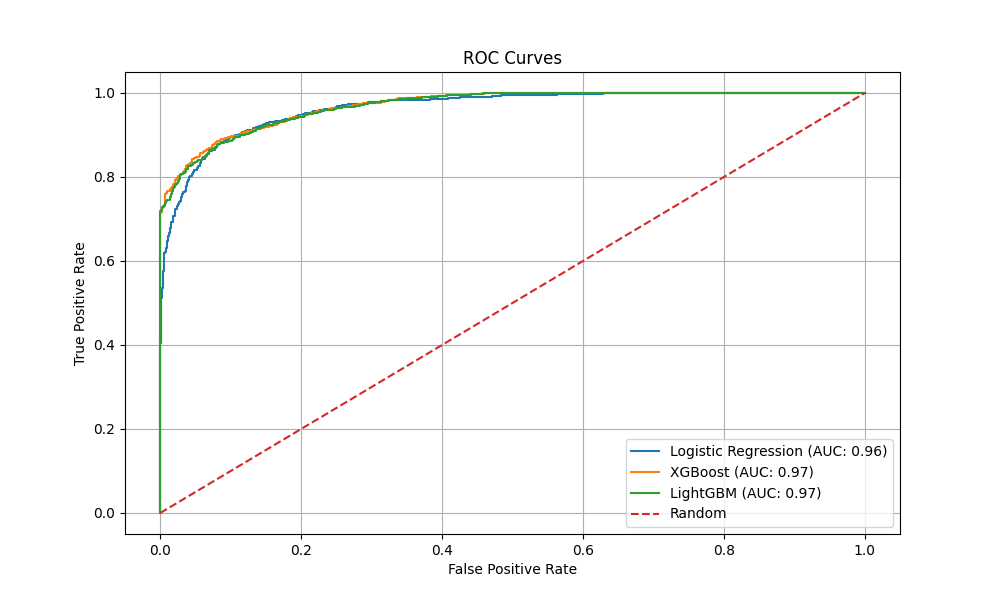
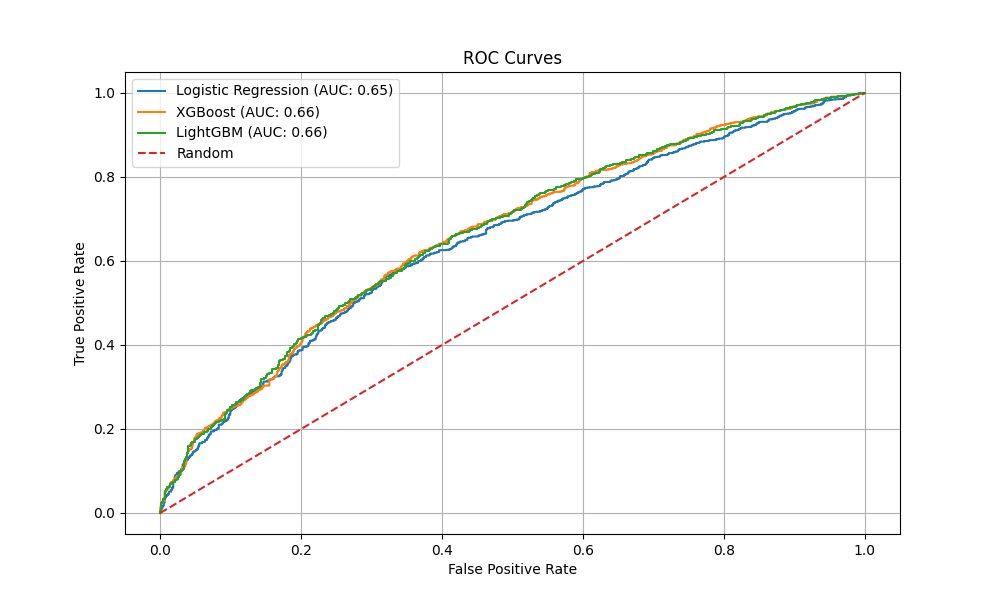
modified model to only include basic features parameter

diff --git a/Model_Training/feature_engineering.py b/Model_Training/feature_engineering.py
@@ -124,137 +124,75 @@ def create_performance_metrics(df):
     df['performance_diff'] = df['home_performance'] - df['away_performance']
     return ['home_performance', 'away_performance', 'performance_diff']
 
+def create_efficiency_metrics(df):
+    """Calculate efficiency-based metrics."""
+    # Offensive efficiency (points per shooting percentage)
+    df['home_off_eff'] = df['home_avg_pts'] / (df['home_avg_fg_pct'] * 100)
+    df['away_off_eff'] = df['away_avg_pts'] / (df['away_avg_fg_pct'] * 100)
+    df['off_eff_diff'] = df['home_off_eff'] - df['away_off_eff']
+    
+    # True shooting percentage
+    df['home_ts_pct'] = df['home_avg_pts'] / (2 * (df['home_avg_fg_pct'] * 100 + 0.44 * df['home_avg_ft_pct'] * 100))
+    df['away_ts_pct'] = df['away_avg_pts'] / (2 * (df['away_avg_fg_pct'] * 100 + 0.44 * df['away_avg_ft_pct'] * 100))
+    df['ts_pct_diff'] = df['home_ts_pct'] - df['away_ts_pct']
+    
+    return ['home_off_eff', 'away_off_eff', 'off_eff_diff',
+            'home_ts_pct', 'away_ts_pct', 'ts_pct_diff']
+
+def create_performance_differentials(df):
+    """Calculate differentials between home and away team stats."""
+    # Basic stat differentials
+    df['pts_diff'] = df['home_avg_pts'] - df['away_avg_pts']
+    df['reb_diff'] = df['home_avg_reb'] - df['away_avg_reb']
+    df['ast_diff'] = df['home_avg_ast'] - df['away_avg_ast']
+    df['stl_diff'] = df['home_avg_stl'] - df['away_avg_stl']
+    df['blk_diff'] = df['home_avg_blk'] - df['away_avg_blk']
+    
+    # Shooting percentage differentials
+    df['fg_pct_diff'] = df['home_avg_fg_pct'] - df['away_avg_fg_pct']
+    df['fg3_pct_diff'] = df['home_avg_fg3_pct'] - df['away_avg_fg3_pct']
+    df['ft_pct_diff'] = df['home_avg_ft_pct'] - df['away_avg_ft_pct']
+    
+    return ['pts_diff', 'reb_diff', 'ast_diff', 'stl_diff', 'blk_diff',
+            'fg_pct_diff', 'fg3_pct_diff', 'ft_pct_diff']
+
+def create_composite_metrics(df):
+    """Create composite performance metrics."""
+    # Defensive rating (blocks + steals)
+    df['home_def_rating'] = df['home_avg_blk'] + df['home_avg_stl']
+    df['away_def_rating'] = df['away_avg_blk'] + df['away_avg_stl']
+    df['def_rating_diff'] = df['home_def_rating'] - df['away_def_rating']
+    
+    # Overall performance rating
+    df['home_performance'] = (
+        df['home_avg_pts'] * 1.0 +
+        df['home_avg_reb'] * 0.4 +
+        df['home_avg_ast'] * 0.3 +
+        df['home_def_rating'] * 0.3
+    )
+    
+    df['away_performance'] = (
+        df['away_avg_pts'] * 1.0 +
+        df['away_avg_reb'] * 0.4 +
+        df['away_avg_ast'] * 0.3 +
+        df['away_def_rating'] * 0.3
+    )
+    
+    df['performance_diff'] = df['home_performance'] - df['away_performance']
+    
+    return ['home_def_rating', 'away_def_rating', 'def_rating_diff',
+            'home_performance', 'away_performance', 'performance_diff']
+
 def engineer_features(df):
-    """
-    Engineer additional features for team performance analysis and ensure all stats are floats
-    Returns both the modified DataFrame and list of engineered feature columns
-    """
+    """Main function to engineer all features."""
     engineered_features = []
     
-    # First ensure all numeric columns are float
-    numeric_columns = [
-        'home_avg_pts', 'away_avg_pts',
-        'home_avg_reb', 'away_avg_reb',
-        'home_avg_ast', 'away_avg_ast',
-        'home_avg_stl', 'away_avg_stl',
-        'home_avg_blk', 'away_avg_blk',
-        'home_avg_fg_pct', 'away_avg_fg_pct',
-        'home_avg_fg3_pct', 'away_avg_fg3_pct',
-        'home_avg_ft_pct', 'away_avg_ft_pct'
-    ]
-    engineered_features.extend(numeric_columns)
-    
-    for col in numeric_columns:
-        df[col] = pd.to_numeric(df[col], errors='coerce').astype(float)
-    
-    # Create rolling window features (last N games)
-    windows = [3, 5, 10]
-    
-    for window in windows:
-        # Rolling averages for each team
-        win_rate_col = f'home_win_rate_{window}g'
-        df[win_rate_col] = df.groupby('team_id_home')['wl_home'].transform(
-            lambda x: pd.to_numeric(x == 'W', errors='coerce').rolling(window, min_periods=1).mean()
-        ).astype(float)
-        engineered_features.append(win_rate_col)
-        
-        # Offensive features
-        home_eff_col = f'home_scoring_efficiency_{window}g'
-        away_eff_col = f'away_scoring_efficiency_{window}g'
-        
-        df[home_eff_col] = (
-            df.groupby('team_id_home')['home_avg_pts'].transform(
-                lambda x: x.rolling(window, min_periods=1).mean()
-            ) / df.groupby('team_id_home')['home_avg_fg_pct'].transform(
-                lambda x: x.rolling(window, min_periods=1).mean()
-            )
-        ).astype(float)
-        
-        df[away_eff_col] = (
-            df.groupby('team_id_away')['away_avg_pts'].transform(
-                lambda x: x.rolling(window, min_periods=1).mean()
-            ) / df.groupby('team_id_away')['away_avg_fg_pct'].transform(
-                lambda x: x.rolling(window, min_periods=1).mean()
-            )
-        ).astype(float)
-        
-        engineered_features.extend([home_eff_col, away_eff_col])
-        
-        # Defensive features
-        home_def_col = f'home_defensive_rating_{window}g'
-        away_def_col = f'away_defensive_rating_{window}g'
-        
-        df[home_def_col] = (
-            df.groupby('team_id_home')['home_avg_stl'].transform(
-                lambda x: x.rolling(window, min_periods=1).mean()
-            ) + df.groupby('team_id_home')['home_avg_blk'].transform(
-                lambda x: x.rolling(window, min_periods=1).mean()
-            )
-        ).astype(float)
-        
-        df[away_def_col] = (
-            df.groupby('team_id_away')['away_avg_stl'].transform(
-                lambda x: x.rolling(window, min_periods=1).mean()
-            ) + df.groupby('team_id_away')['away_avg_blk'].transform(
-                lambda x: x.rolling(window, min_periods=1).mean()
-            )
-        ).astype(float)
-        
-        engineered_features.extend([home_def_col, away_def_col])
-    
-    # Head-to-head features
-    df['h2h_wins'] = df.groupby(['team_id_home', 'team_id_away'])['wl_home'].transform(
-        lambda x: pd.to_numeric(x == 'W', errors='coerce').expanding().mean()
-    ).astype(float)
-    engineered_features.append('h2h_wins')
-    
-    # Home/Away performance
-    df['home_advantage'] = df.groupby('team_id_home')['wl_home'].transform(
-        lambda x: pd.to_numeric(x == 'W', errors='coerce').expanding().mean()
-    ).astype(float)
-    
-    df['away_disadvantage'] = df.groupby('team_id_away')['wl_home'].transform(
-        lambda x: pd.to_numeric(x == 'L', errors='coerce').expanding().mean()
-    ).astype(float)
-    
-    engineered_features.extend(['home_advantage', 'away_disadvantage'])
-    
-    # Momentum features
-    df['home_momentum'] = df.groupby('team_id_home')['wl_home'].transform(
-        lambda x: pd.to_numeric(x == 'W', errors='coerce').rolling(3, min_periods=1).sum()
-    ).astype(float)
-    
-    df['away_momentum'] = df.groupby('team_id_away')['wl_home'].transform(
-        lambda x: pd.to_numeric(x == 'L', errors='coerce').rolling(3, min_periods=1).sum()
-    ).astype(float)
-    
-    engineered_features.extend(['home_momentum', 'away_momentum'])
-    
-    # Shooting efficiency differential
-    shooting_diffs = ['fg_pct_diff', 'fg3_pct_diff', 'ft_pct_diff']
-    df['fg_pct_diff'] = (df['home_avg_fg_pct'] - df['away_avg_fg_pct']).astype(float)
-    df['fg3_pct_diff'] = (df['home_avg_fg3_pct'] - df['away_avg_fg3_pct']).astype(float)
-    df['ft_pct_diff'] = (df['home_avg_ft_pct'] - df['away_avg_ft_pct']).astype(float)
-    engineered_features.extend(shooting_diffs)
-    
-    # Overall team efficiency
-    df['home_efficiency'] = (
-        (df['home_avg_pts'] + df['home_avg_ast'] + df['home_avg_reb']) /
-        (df['home_avg_fg_pct'] + df['home_avg_fg3_pct'] + df['home_avg_ft_pct'])
-    ).astype(float)
-    
-    df['away_efficiency'] = (
-        (df['away_avg_pts'] + df['away_avg_ast'] + df['away_avg_reb']) /
-        (df['away_avg_fg_pct'] + df['away_avg_fg3_pct'] + df['away_avg_ft_pct'])
-    ).astype(float)
-    
-    engineered_features.extend(['home_efficiency', 'away_efficiency'])
+    # Add all engineered features
+    engineered_features.extend(create_efficiency_metrics(df))
+    engineered_features.extend(create_performance_differentials(df))
+    engineered_features.extend(create_composite_metrics(df))
     
     # Fill any NaN values with 0
-    df = df.fillna(0.0)
-    
-    # Final check to ensure all numeric columns are float
-    numeric_cols = df.select_dtypes(include=['int64', 'float64']).columns
-    df[numeric_cols] = df[numeric_cols].astype(float)
+    df[engineered_features] = df[engineered_features].fillna(0)
     
     return engineered_features 

diff --git a/Model_Training/train_models.py b/Model_Training/train_models.py
@@ -8,26 +8,29 @@ from sklearn.metrics import brier_score_loss, roc_auc_score, roc_curve, log_loss
 import xgboost as xgb
 import lightgbm as lgb
 import matplotlib.pyplot as plt
-from feature_engineering import engineer_features
 import joblib
+from feature_engineering import engineer_features
 
-def load_data(filepath):
+def load_data(filepath, basic_features_only=False):
     df = pd.read_csv(filepath)
     
     # Convert win/loss to binary
     df['target'] = (df['wl_home'] == 'W').astype(int)
     
     # Basic features (season averages)
-    base_features = ['home_avg_pts', 'home_avg_reb', 'home_avg_ast', 'home_avg_stl', 
-                    'home_avg_blk', 'home_avg_fg_pct', 'home_avg_fg3_pct', 'home_avg_ft_pct',
-                    'away_avg_pts', 'away_avg_reb', 'away_avg_ast', 'away_avg_stl',
-                    'away_avg_blk', 'away_avg_fg_pct', 'away_avg_fg3_pct', 'away_avg_ft_pct']
+    base_features = [
+        'home_avg_pts', 'home_avg_reb', 'home_avg_ast', 'home_avg_stl', 
+        'home_avg_blk', 'home_avg_fg_pct', 'home_avg_fg3_pct', 'home_avg_ft_pct',
+        'away_avg_pts', 'away_avg_reb', 'away_avg_ast', 'away_avg_stl',
+        'away_avg_blk', 'away_avg_fg_pct', 'away_avg_fg3_pct', 'away_avg_ft_pct'
+    ]
     
-    # Engineer new features
-    engineered_features = engineer_features(df)
-    
-    # Combine all features
-    feature_cols = base_features + engineered_features
+    if basic_features_only:
+        feature_cols = base_features
+    else:
+        # Engineer new features
+        engineered_features = engineer_features(df)
+        feature_cols = base_features + engineered_features
     
     # Drop rows with missing values
     df = df.dropna(subset=feature_cols + ['target'])
@@ -36,10 +39,9 @@ def load_data(filepath):
     X = df[feature_cols]
     y = df['target']
     
-    # Print feature importance using correlation with target
-    correlations = X.corrwith(y).abs().sort_values(ascending=False)
-    print("\nFeature Correlations with Target:")
-    print(correlations)
+    print(f"\nUsing {'basic' if basic_features_only else 'all'} features:")
+    print(f"Number of features: {len(feature_cols)}")
+    print("Features used:", feature_cols)
     
     return X, y
 
@@ -194,14 +196,14 @@ def plot_log_loss(results):
     plt.close()
 
 def main():
-    # Load data
-    X, y = load_data('team_game_stats.csv')
+    # Load data with only basic features
+    X, y = load_data('team_game_stats.csv', basic_features_only=True)
     
     # Train and evaluate models
     calibrated_models, results = train_evaluate_models(X, y)
     
     # Print results
-    print("\nModel Performance:")
+    print("\nModel Performance (Basic Features Only):")
     for name, result in results.items():
         print(f"\n{name}:")
         print(f"Brier Score: {result['brier_score']:.3f}")
@@ -217,9 +219,13 @@ def main():
     best_model_name = min(results.items(), key=lambda x: x[1]['brier_score'])[0]
     print(f"\nBest Model (based on Brier score): {best_model_name}")
     
-    #save best model
+    # Save best model and feature names
     best_model = calibrated_models[best_model_name]
-    joblib.dump(best_model, 'best_model.pkl')
+    feature_names = X.columns.tolist()
+    joblib.dump({
+        'model': best_model,
+        'feature_names': feature_names
+    }, 'basic_features_model.pkl')
 
 if __name__ == "__main__":
     main() 

diff --git a/Model_Deployment/load_data.py b/Model_Deployment/load_data.py
@@ -1,0 +1,27 @@
+from pymongo import MongoClient
+import os
+from dotenv import load_dotenv
+from pprint import pprint
+
+load_dotenv()
+
+
+def connect_to_mongodb():
+    client = MongoClient(os.getenv('MONGODB_URI'))
+    print(os.getenv('MONGODB_URI'))
+    db = client['nba_stats']
+    collection = db['team_averages']
+    return collection
+
+def get_fields(collection):
+    fields = collection.find_one()
+    return fields.keys()
+
+collection = connect_to_mongodb()
+fields = get_fields(collection)
+pprint(fields)
+
+
+
+
+
